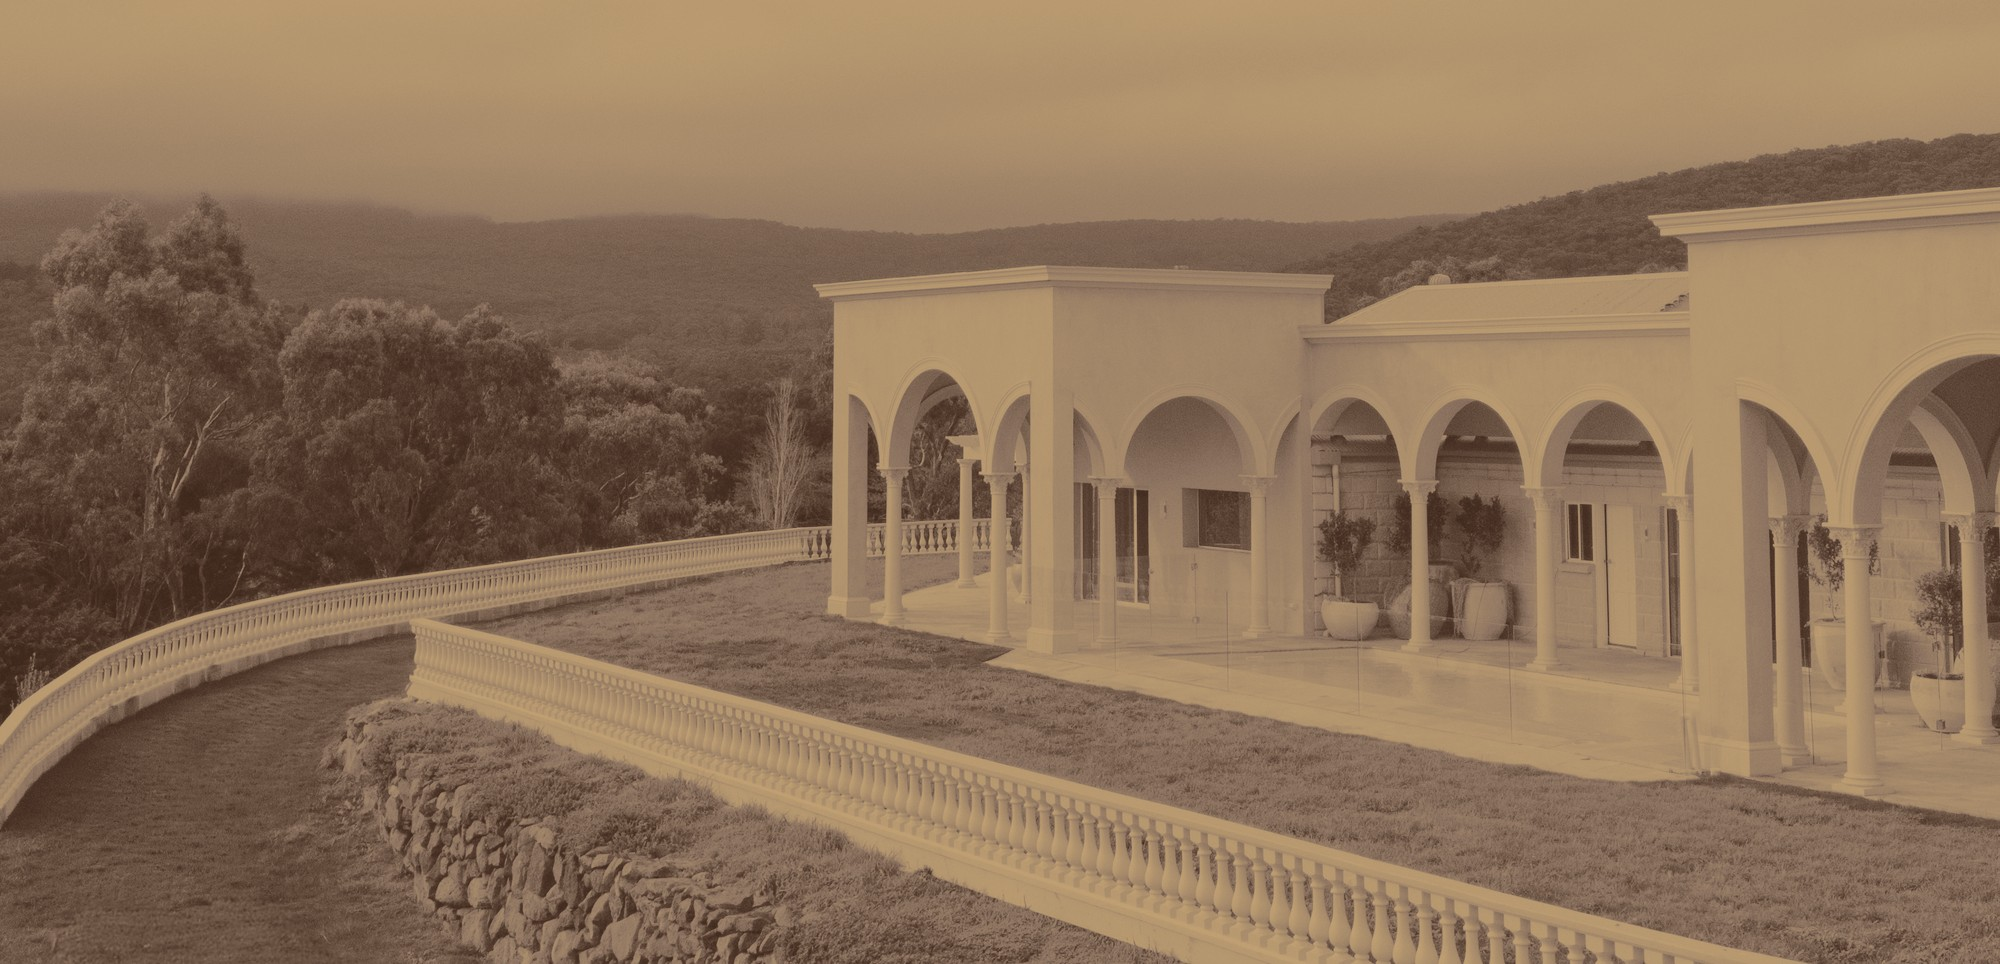
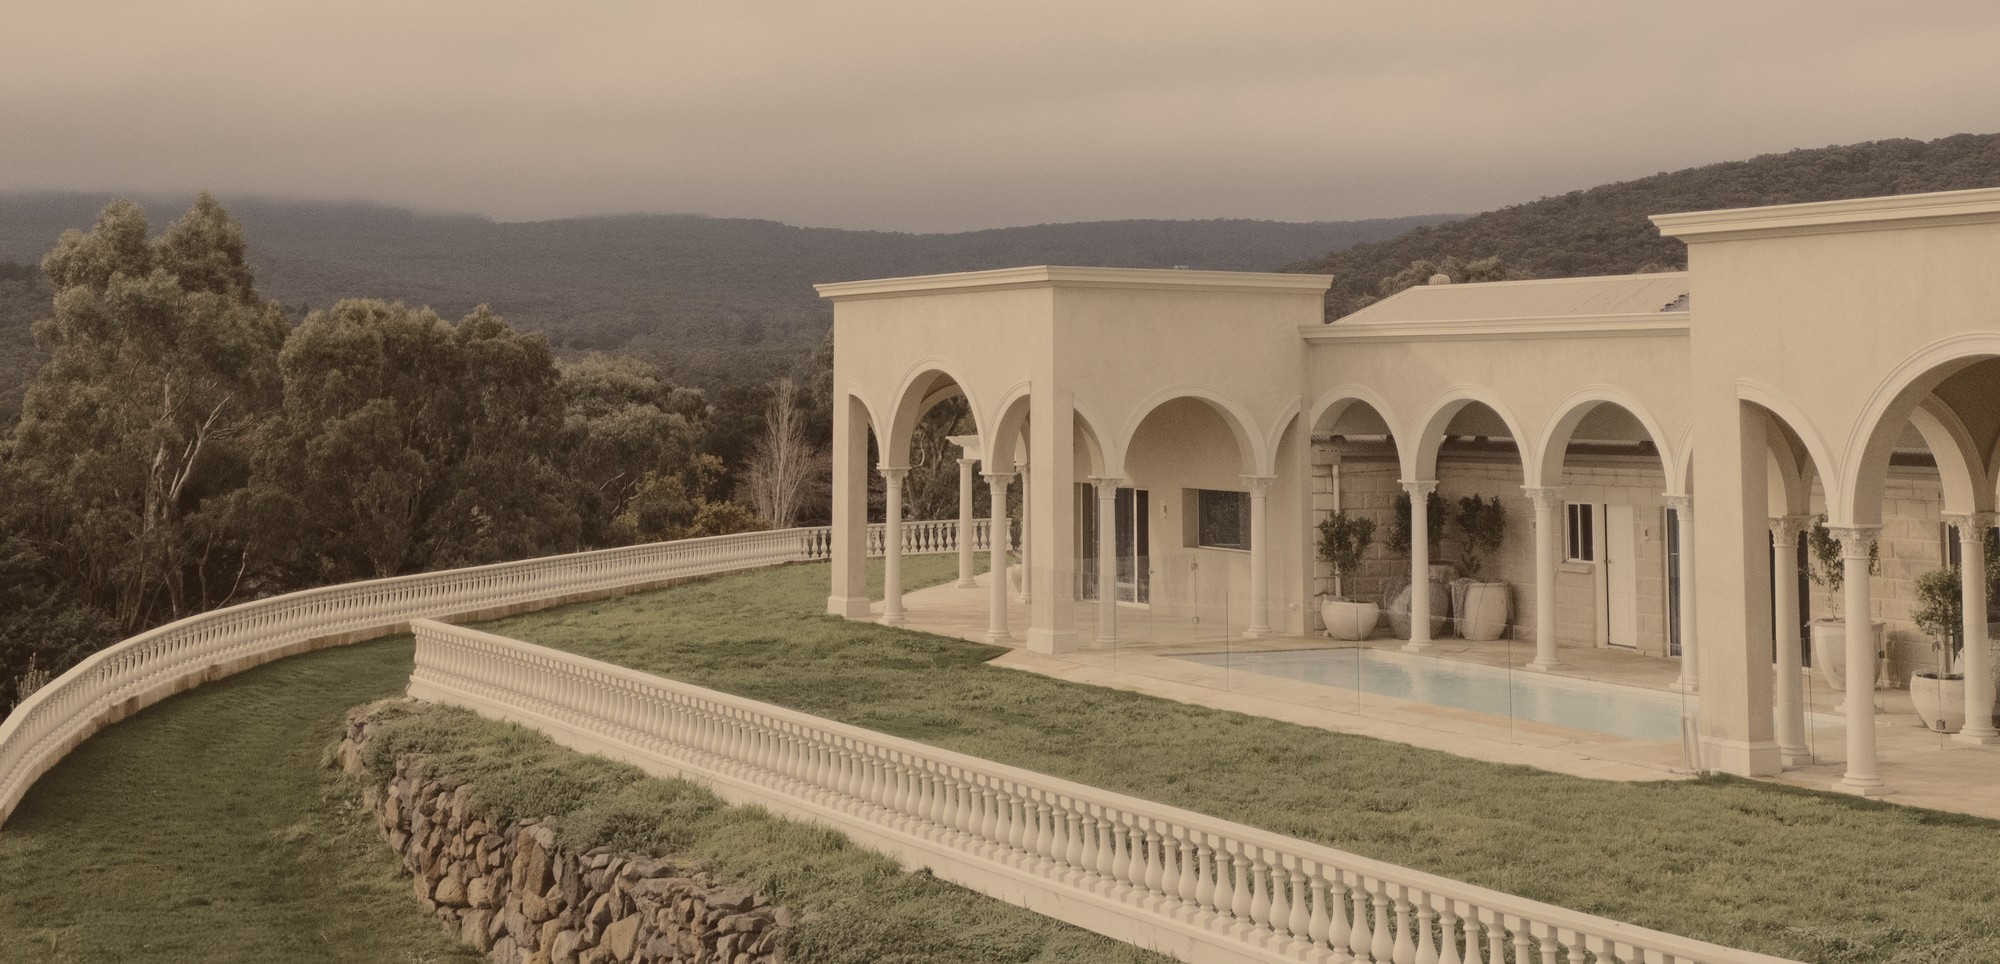
Blend in more real photo colour, scale hero/nav up on wide screens
- Venue and RSVP photos (desktop + mobile, 4 files) now blend a portion
  of the original color photo back into the duotone wash, rather than
  being fully desaturated then recolored — reads less flat, still stays
  close to the site's palette. RSVP mobile also got a paler highlight
  tone so its large sky doesn't read as solid yellow.
- Hero and nav now scale up (text, monogram, RSVP button, spacing) on
  very wide screens (2xl breakpoint, ~1536px+) instead of staying a
  fixed size while the surrounding canvas grows — was reading as
  disproportionately small on wide monitors.

Claude-Session: https://claude.ai/code/session_018cVrHxvtqPohuHnX6PutRN

diff --git a/src/components/hero.tsx b/src/components/hero.tsx
@@ -53,7 +53,7 @@ export function Hero({
           alt="N & A monogram"
           width={112}
           height={112}
-          className="mx-auto mb-8 h-24 w-24 sm:h-28 sm:w-28 brightness-0 invert"
+          className="mx-auto mb-8 h-24 w-24 sm:h-28 sm:w-28 2xl:h-32 2xl:w-32 brightness-0 invert"
           priority
         />
       </motion.div>
@@ -62,7 +62,7 @@ export function Hero({
         initial={{ opacity: 0 }}
         animate={{ opacity: 1 }}
         transition={{ delay: 0.35, duration: 0.9 }}
-        className="kicker text-base sm:text-lg text-cream-100"
+        className="kicker text-base sm:text-lg 2xl:text-xl text-cream-100"
       >
         We&rsquo;re getting married
       </motion.p>
@@ -71,7 +71,7 @@ export function Hero({
         initial={{ opacity: 0, y: 20 }}
         animate={{ opacity: 1, y: 0 }}
         transition={{ delay: 0.5, duration: 1, ease: [0.16, 1, 0.3, 1] }}
-        className="font-script text-6xl sm:text-8xl text-cream-100 leading-[1.25] mt-5 px-2"
+        className="font-script text-6xl sm:text-8xl 2xl:text-9xl text-cream-100 leading-[1.25] mt-5 px-2"
       >
         Nicole &amp; Alex
       </motion.h1>
@@ -84,12 +84,12 @@ export function Hero({
       >
         <div className="flex items-center gap-3 text-cream-100">
           <span className="h-px w-8 bg-gold-300/50" />
-          <p className="tracking-[0.25em] uppercase text-xs sm:text-sm">
+          <p className="tracking-[0.25em] uppercase text-xs sm:text-sm 2xl:text-base">
             Thursday, 11 March 2027
           </p>
           <span className="h-px w-8 bg-gold-300/50" />
         </div>
-        <p className="font-serif italic text-2xl sm:text-3xl text-cream-100">
+        <p className="font-serif italic text-2xl sm:text-3xl 2xl:text-4xl text-cream-100">
           Alora Macedon
         </p>
       </motion.div>
@@ -101,7 +101,7 @@ export function Hero({
       >
         <AnchorLink
           href="#rsvp"
-          className="mt-11 inline-block rounded-full bg-taupe-600 text-cream-100 px-11 py-3.5 text-sm tracking-[0.25em] uppercase transition-all duration-300 hover:bg-[#77604f] hover:shadow-[0_0_30px_rgba(140,115,97,0.35)]"
+          className="mt-11 inline-block rounded-full bg-taupe-600 text-cream-100 px-11 py-3.5 2xl:px-14 2xl:py-4 text-sm 2xl:text-base tracking-[0.25em] uppercase transition-all duration-300 hover:bg-[#77604f] hover:shadow-[0_0_30px_rgba(140,115,97,0.35)]"
         >
           RSVP
         </AnchorLink>

diff --git a/src/components/nav.tsx b/src/components/nav.tsx
@@ -96,14 +96,14 @@ export function SiteNav() {
         scrolled ? "shadow-[0_8px_24px_rgba(58,15,24,0.18)]" : "shadow-none"
       }`}
     >
-      <div className="mx-auto max-w-6xl px-6 sm:px-10 py-5 flex items-center justify-between">
+      <div className="mx-auto max-w-6xl 2xl:max-w-7xl px-6 sm:px-10 py-5 2xl:py-6 flex items-center justify-between">
         <AnchorLink href="#home" onClick={closeMenu} className="group flex items-center gap-3 text-cream-100">
-          <Monogram className="h-8 w-8 shrink-0 brightness-0 invert" />
-          <span className="font-serif italic text-lg tracking-wide">Nicole &amp; Alex</span>
+          <Monogram className="h-8 w-8 2xl:h-9 2xl:w-9 shrink-0 brightness-0 invert" />
+          <span className="font-serif italic text-lg 2xl:text-xl tracking-wide">Nicole &amp; Alex</span>
         </AnchorLink>
 
         {/* Desktop nav */}
-        <nav className="hidden lg:flex items-center gap-x-7 font-serif text-[13px] tracking-[0.08em] text-cream-100/90">
+        <nav className="hidden lg:flex items-center gap-x-7 2xl:gap-x-8 font-serif text-[13px] 2xl:text-[15px] tracking-[0.08em] text-cream-100/90">
           {links.map((link) => (
             <NavLink key={link.href} href={link.href} label={link.label} />
           ))}
@@ -111,7 +111,7 @@ export function SiteNav() {
 
         <AnchorLink
           href="#rsvp"
-          className="hidden lg:inline-block rounded-full bg-taupe-600 px-6 py-2 text-[11px] tracking-[0.2em] uppercase text-cream-100 hover:bg-[#77604f] transition-colors duration-300"
+          className="hidden lg:inline-block rounded-full bg-taupe-600 px-6 2xl:px-8 py-2 2xl:py-2.5 text-[11px] 2xl:text-xs tracking-[0.2em] uppercase text-cream-100 hover:bg-[#77604f] transition-colors duration-300"
         >
           RSVP
         </AnchorLink>
